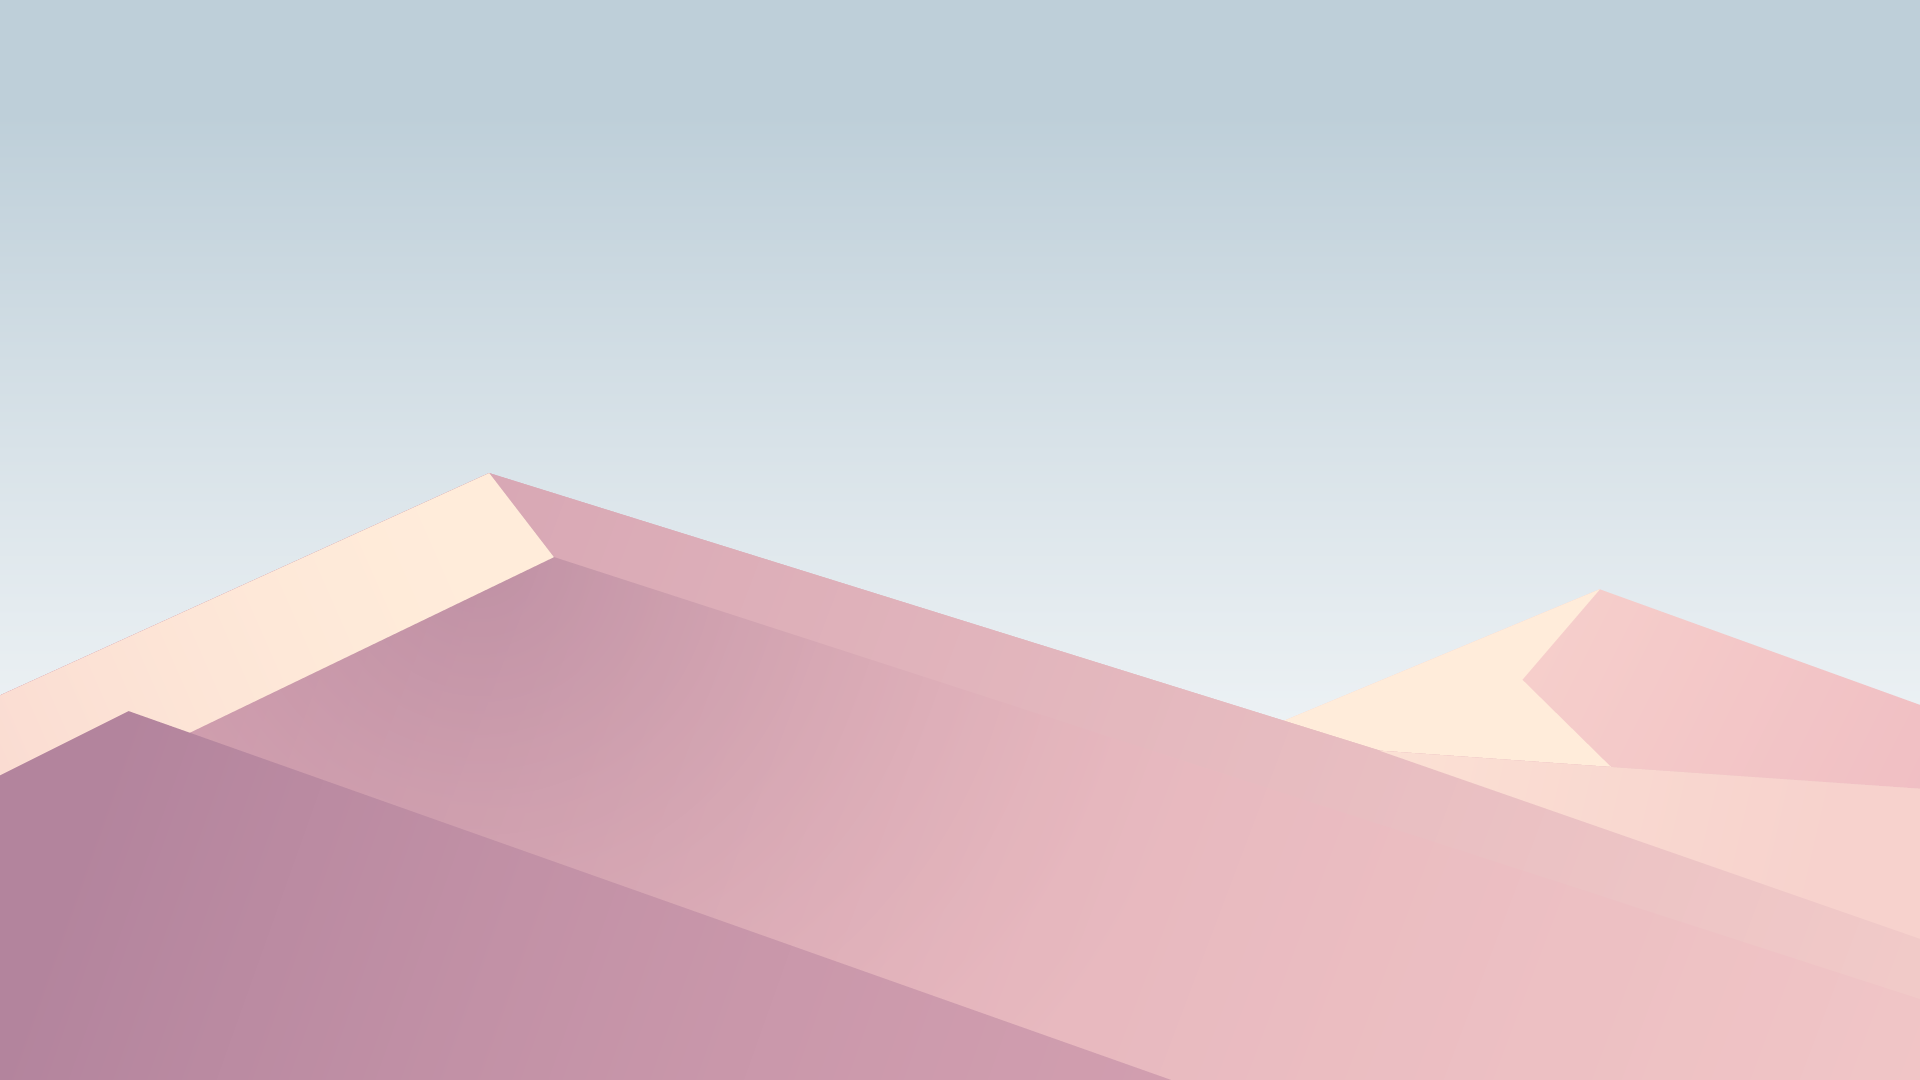
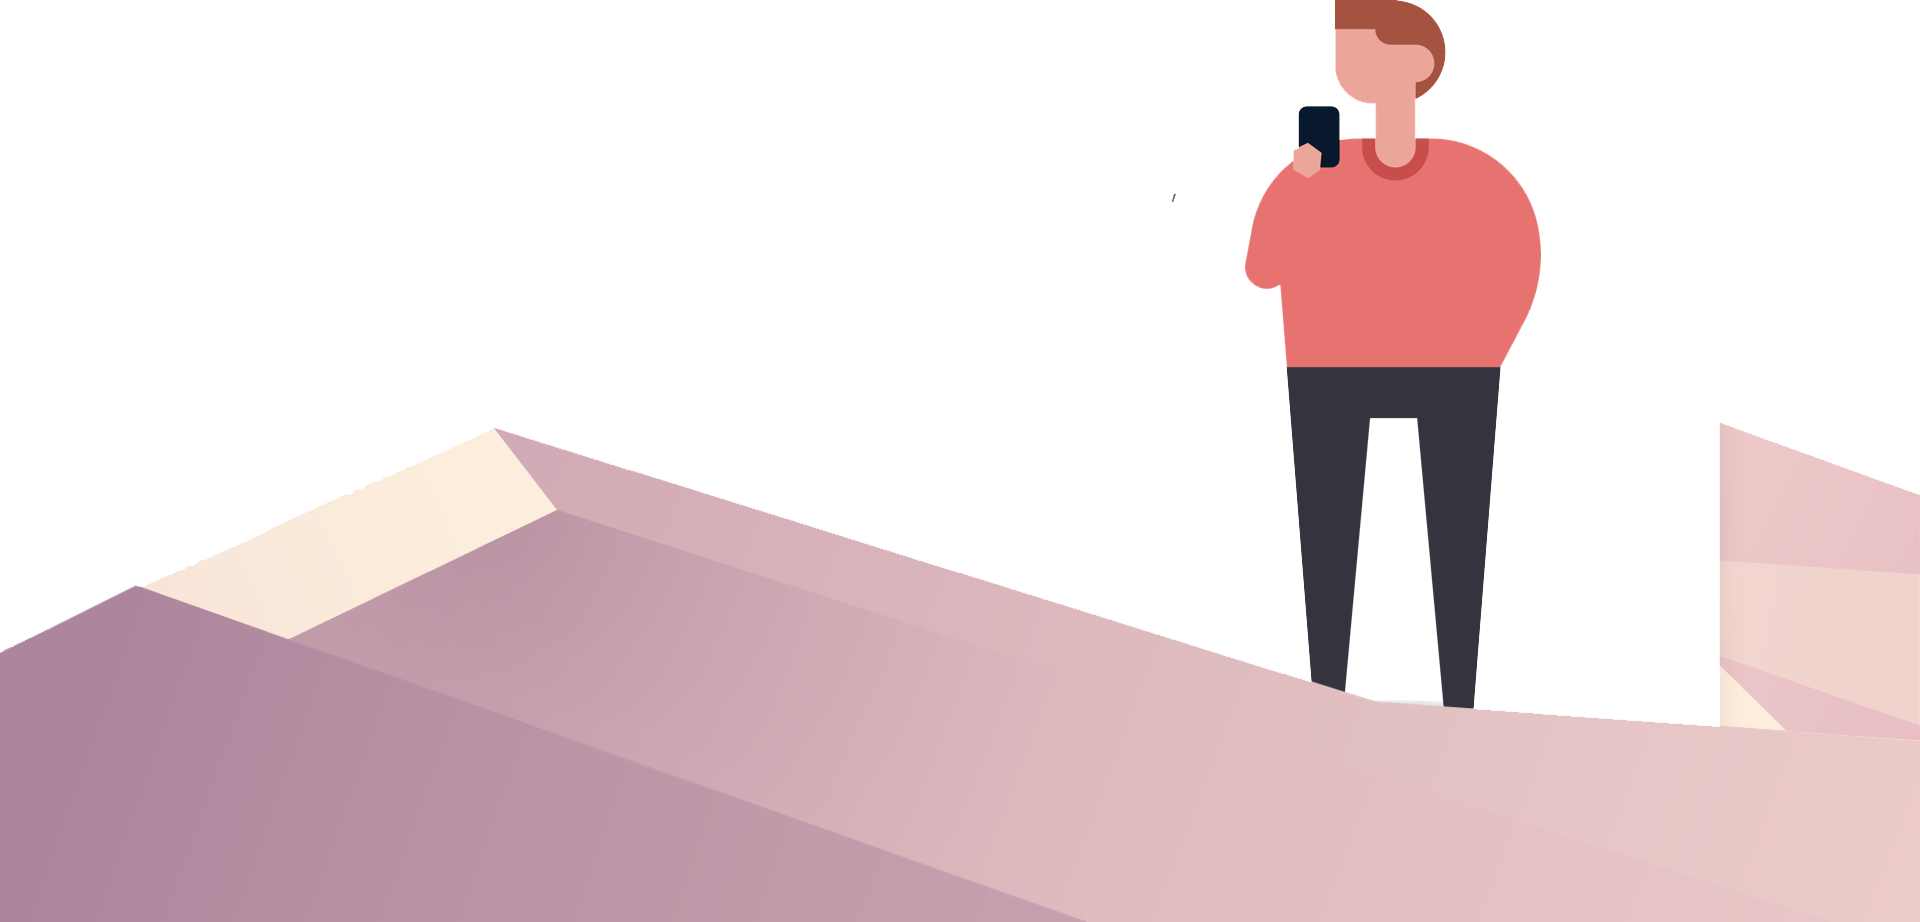
V1 of site done.

diff --git a/css/main.css b/css/main.css
@@ -15,6 +15,11 @@ body {
     background-image: -webkit-linear-gradient(bottom, #BED0DA 0%, #FEFEFF 100%);
     background-image: -ms-linear-gradient(bottom, #BED0DA 0%, #FEFEFF 100%);
     background-image: linear-gradient(to bottom, #BED0DA 0%, #FEFEFF 100%);
+
+    height: 100%;
+    margin: 0;
+    background-repeat: no-repeat;
+    background-attachment: fixed;    
 }
 
 .ui.large.top.fixed.menu.navbar {
@@ -60,18 +65,21 @@ section {
 
 .hero-box {
     background-color: white;
-    height: 500px;
+    height: 550px;
     width: 1100px;
     margin: auto;
     padding: 50px;
     text-align: center;
+    box-shadow: 0 2px 33px rgba(0,0,0,.15);
 }
 
 .hero-box-text {
-    font-size: 22px;
+    font-size: 21px;
     max-width: 590px;
     margin: auto;
     color: #5E5E5E;
+    word-spacing: 1px;
+    letter-spacing: 1px;
 }
 
 .hero-box .image-section .bus {
@@ -122,6 +130,58 @@ section.full-width {
 section.secure {
     max-width: 1100px;
     background-color: white;
-    height: 500px;
+    height: 1100px;
+    box-shadow: 0 2px 33px rgba(0,0,0,.15);
+    padding-top: 100px;
+    text-align: center;
+}
 
+.secure h2 {
+    color: #5E5E5E;
+    font-size: 35px;
+    letter-spacing: 4px;
+    word-spacing: 2px;
+}
+
+.secure img {
+    max-width: 45px;
+}
+
+.secure .ui.grid {
+    padding-top: 50px;
+    max-width: 900px;
+    margin: auto;    
+}
+
+.going-container {
+    max-width: 700px;
+    text-align: left;
+    padding-left: 100px;
+    padding-top: 100px;
+}
+
+.going-container p {
+    padding-top: 50px;
+    font-size: 21px;
+    max-width: 590px;
+    margin: auto;
+    color: #5E5E5E;
+    word-spacing: 1px;
+    letter-spacing: 1px;    
+}
+
+footer {
+    text-align: center;
+}
+
+footer img {
+    width: 1400px;
+    margin: auto;
+    margin-top: -529px;
+    margin-right: 6px;
+    margin-bottom: -15px;
+}
+
+.going-container h2 {
+    max-width: 400px;
 }

diff --git a/index.html b/index.html
@@ -52,10 +52,32 @@
         </section>
 
         <section class="secure">
-            
+            <h2>SECURE DELIVERY</h2>
+            <div class="ui three column grid">
+              <div class="column">
+                <img src="/img/umbrella.JPG" alt="">
+                <h3>Insured Deliveries</h3>
+              </div>
+              <div class="column">
+                <img src="/img/check.JPG" alt="">
+                <h3>Package-ID Secured Handoffs</h3>
+              </div>
+              <div class="column">
+                <img src="/img/chain.JPG" alt="">
+                <h3>Built on Blockchain</h3>
+              </div>
+            </div>  
+
+            <div class="going-container">
+                <h2>GOING SOMEWHERE?</h2>          
+                <p>Make money by doing the same thing you were going to do anyway. Just text Co|Post, and pick up a package to take alont to your destination. Earn reputation to unlock more valuable deliveries.</p>
+            </div>
+
         </section>
 
-
+        <footer>
+            <img src="/img/background.png" alt="">
+        </footer>
 
         <script src="js/plugins.js"></script>
         <script src="js/main.js"></script>
